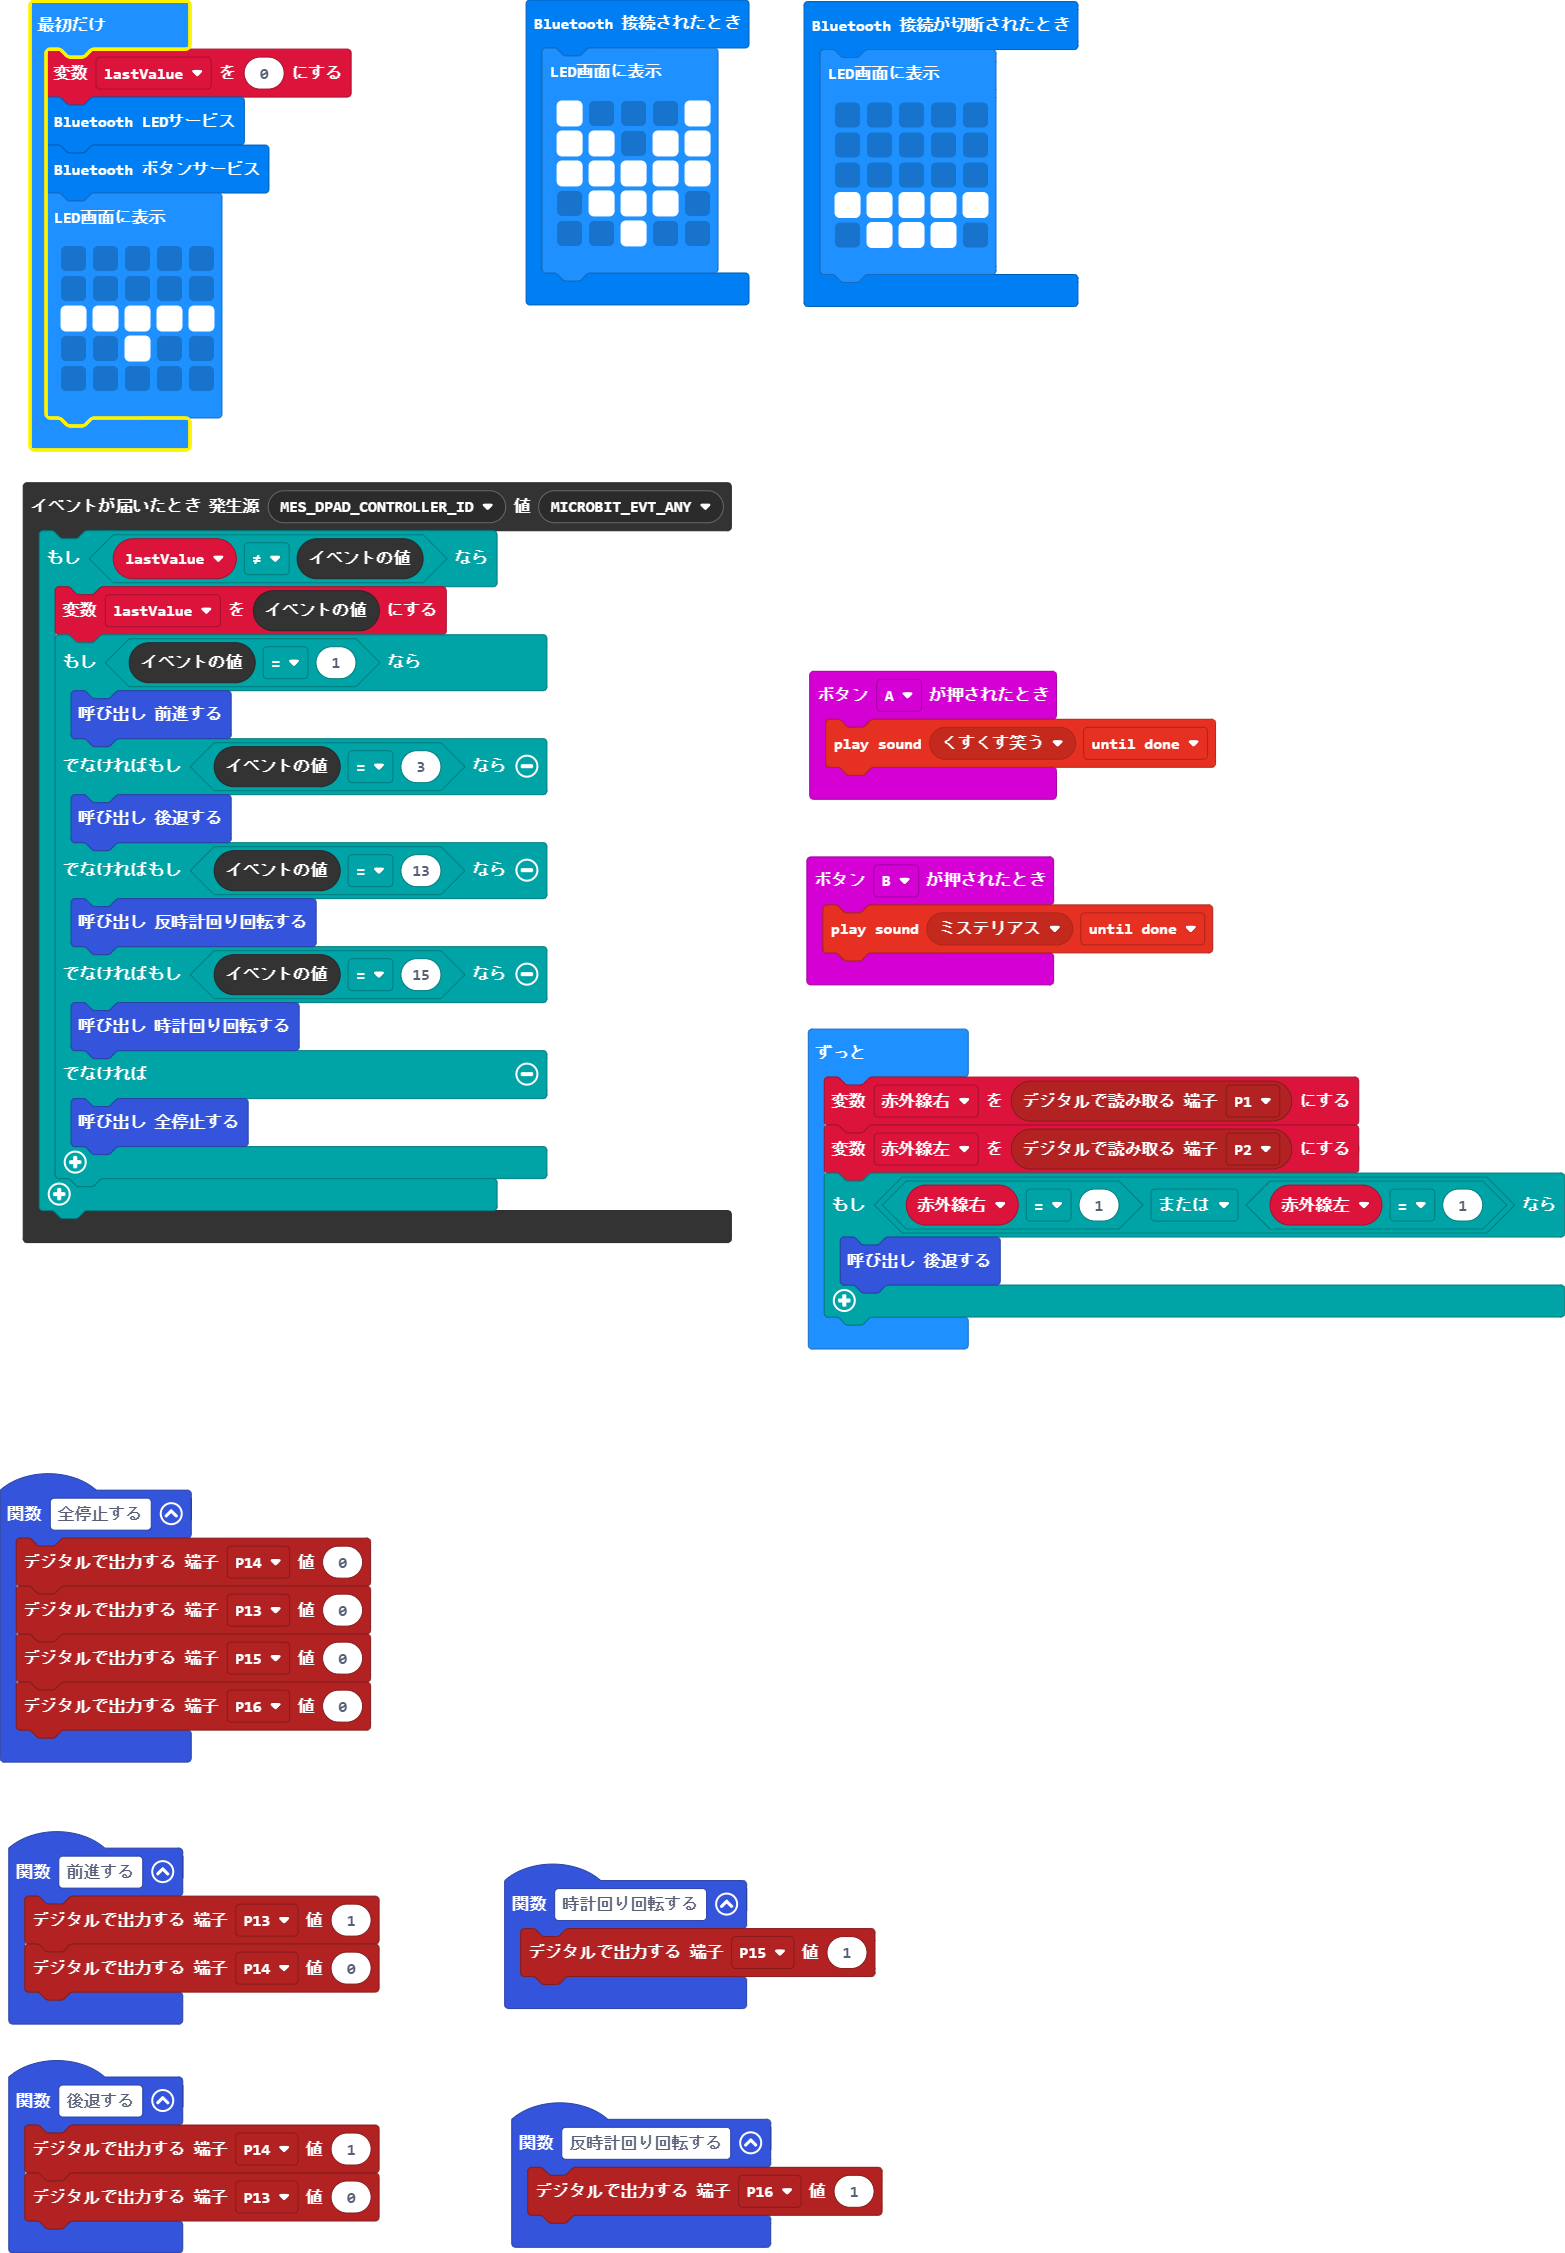
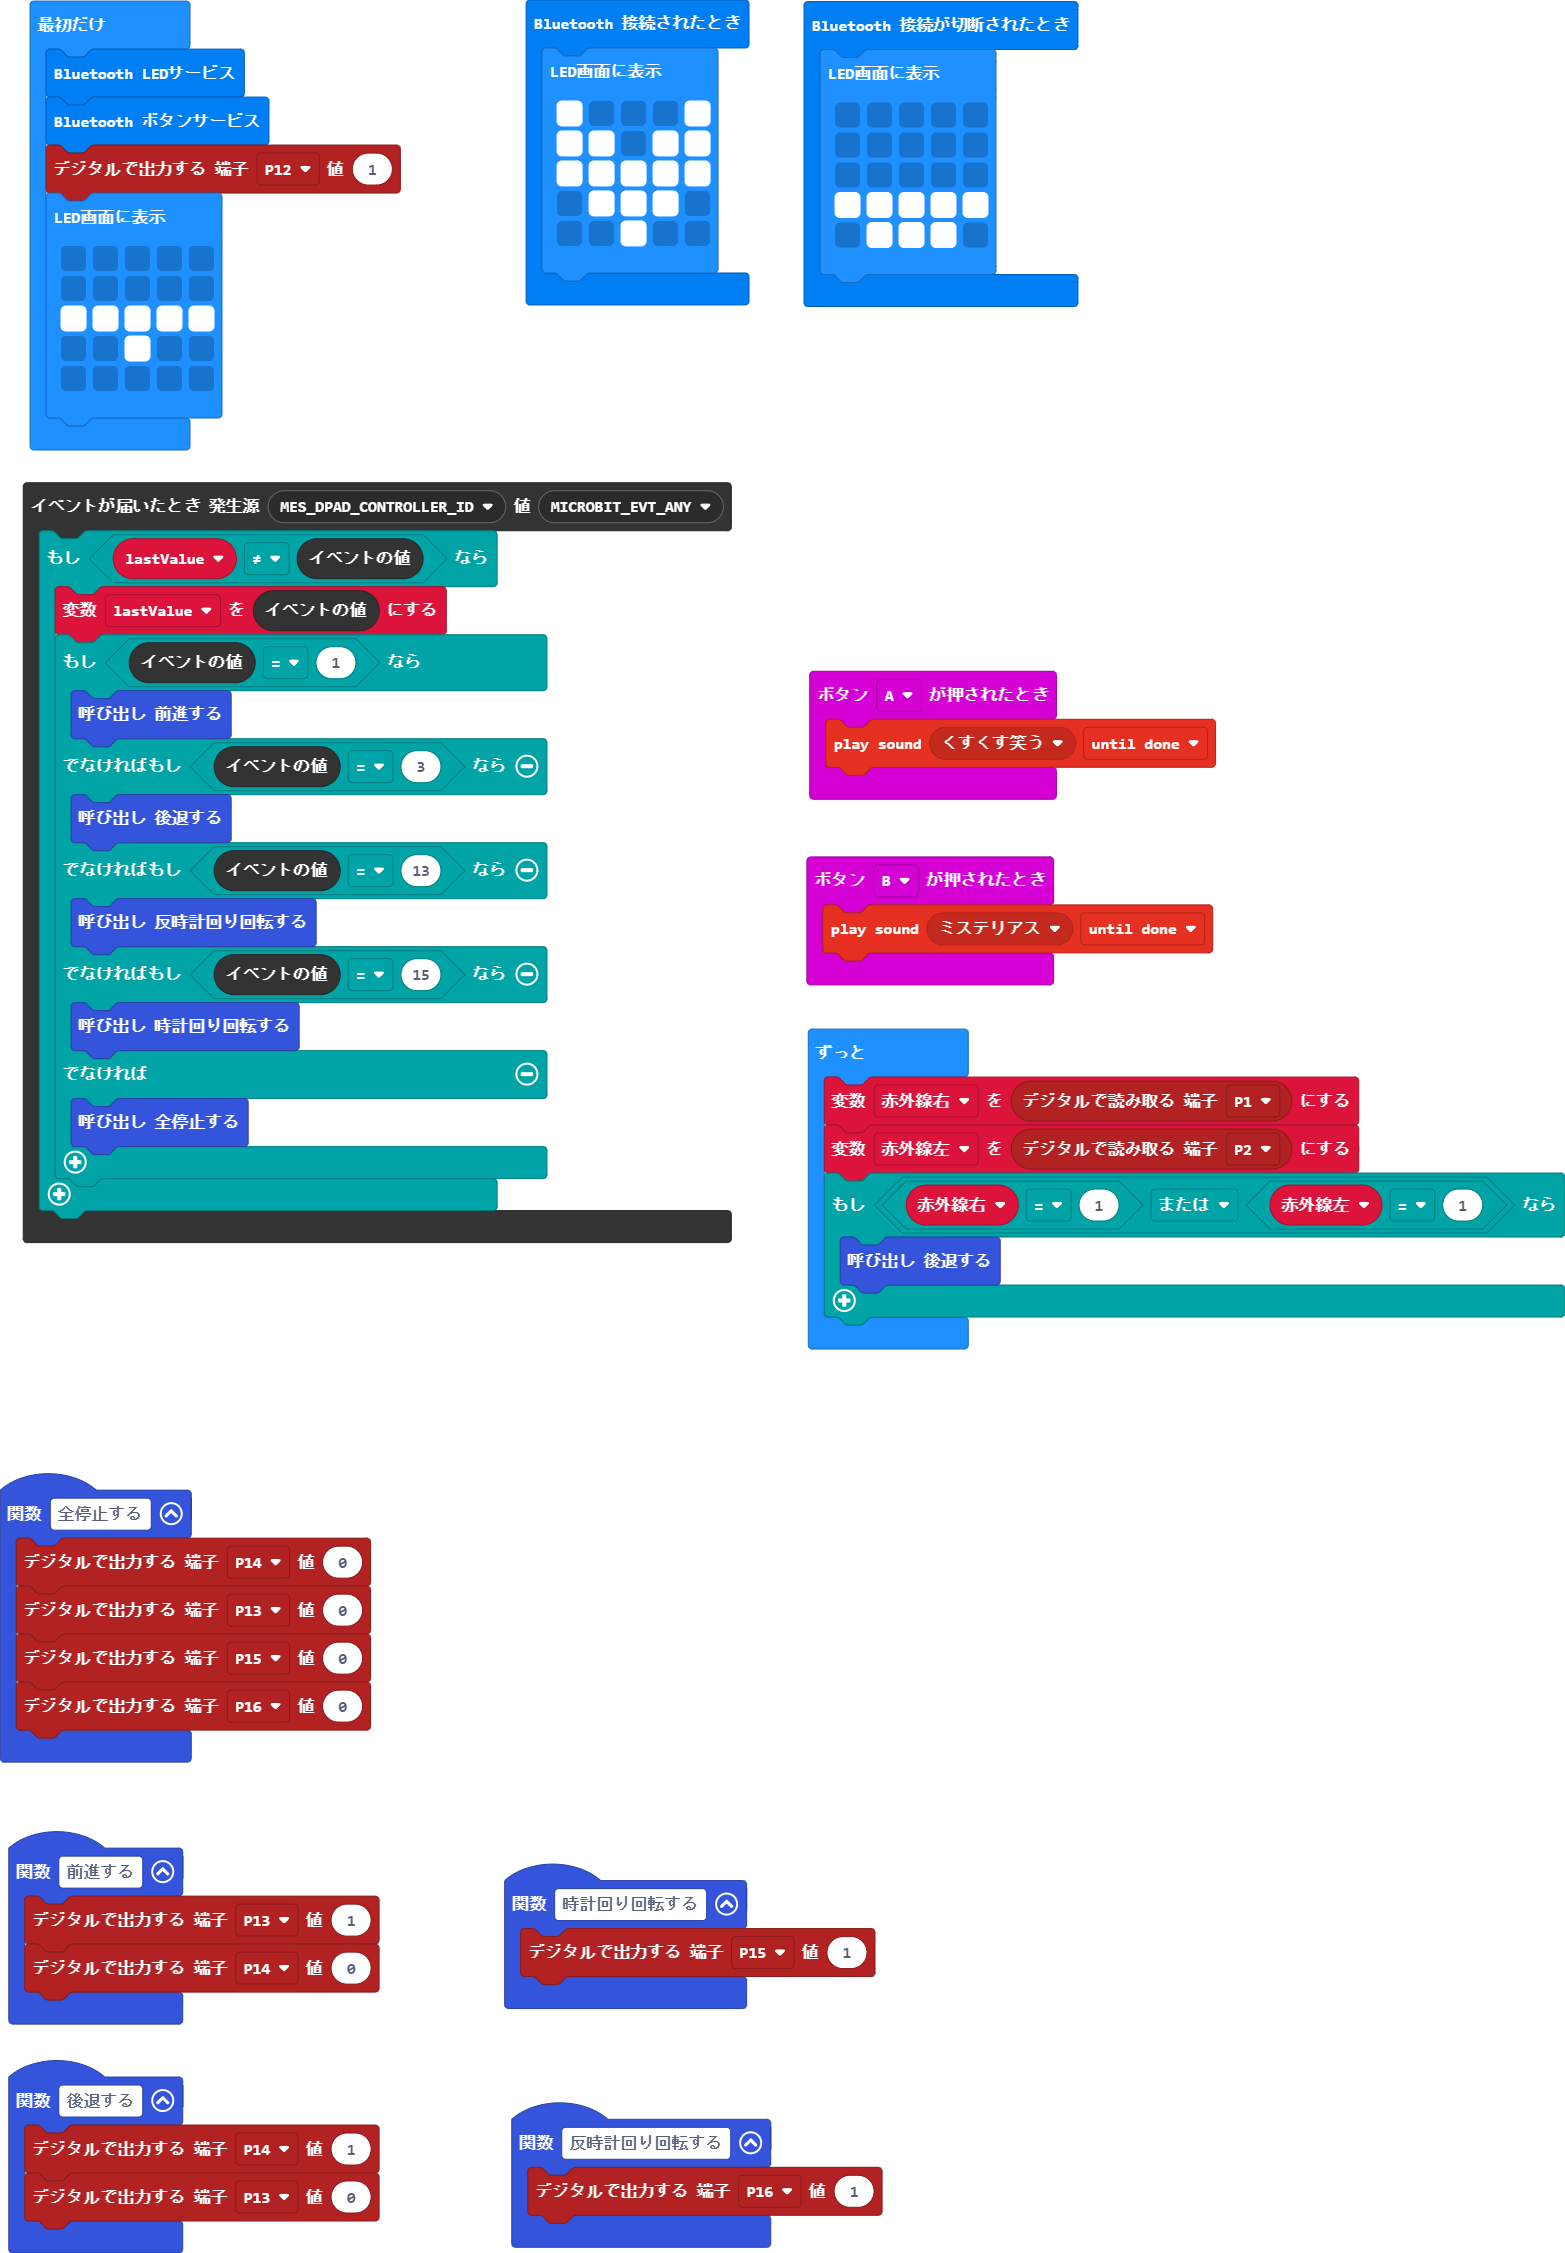
赤外線センサを有効にする

Changed region(s): [[0.0, 0.0, 0.276, 0.1864]]

diff --git a/main.ts b/main.ts
@@ -61,9 +61,9 @@ function 時計回り回転する () {
 let 赤外線左 = 0
 let 赤外線右 = 0
 let lastValue = 0
-lastValue = 0
 bluetooth.startLEDService()
 bluetooth.startButtonService()
+pins.digitalWritePin(DigitalPin.P12, 1)
 basic.showLeds(`
     . . . . .
     . . . . .
